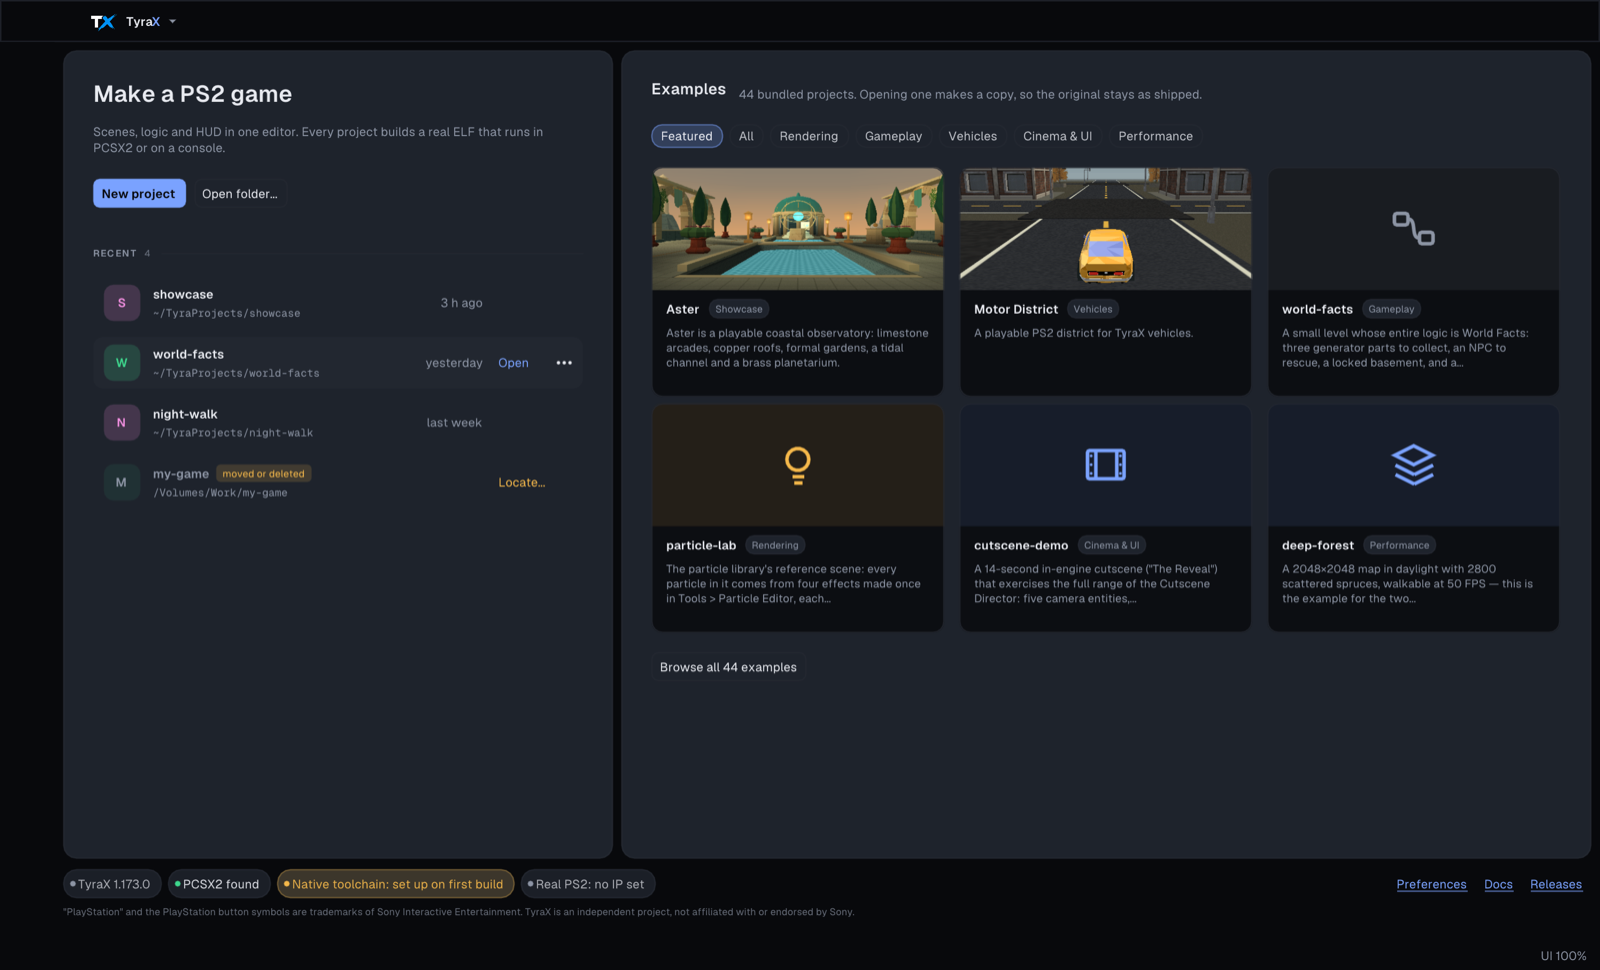
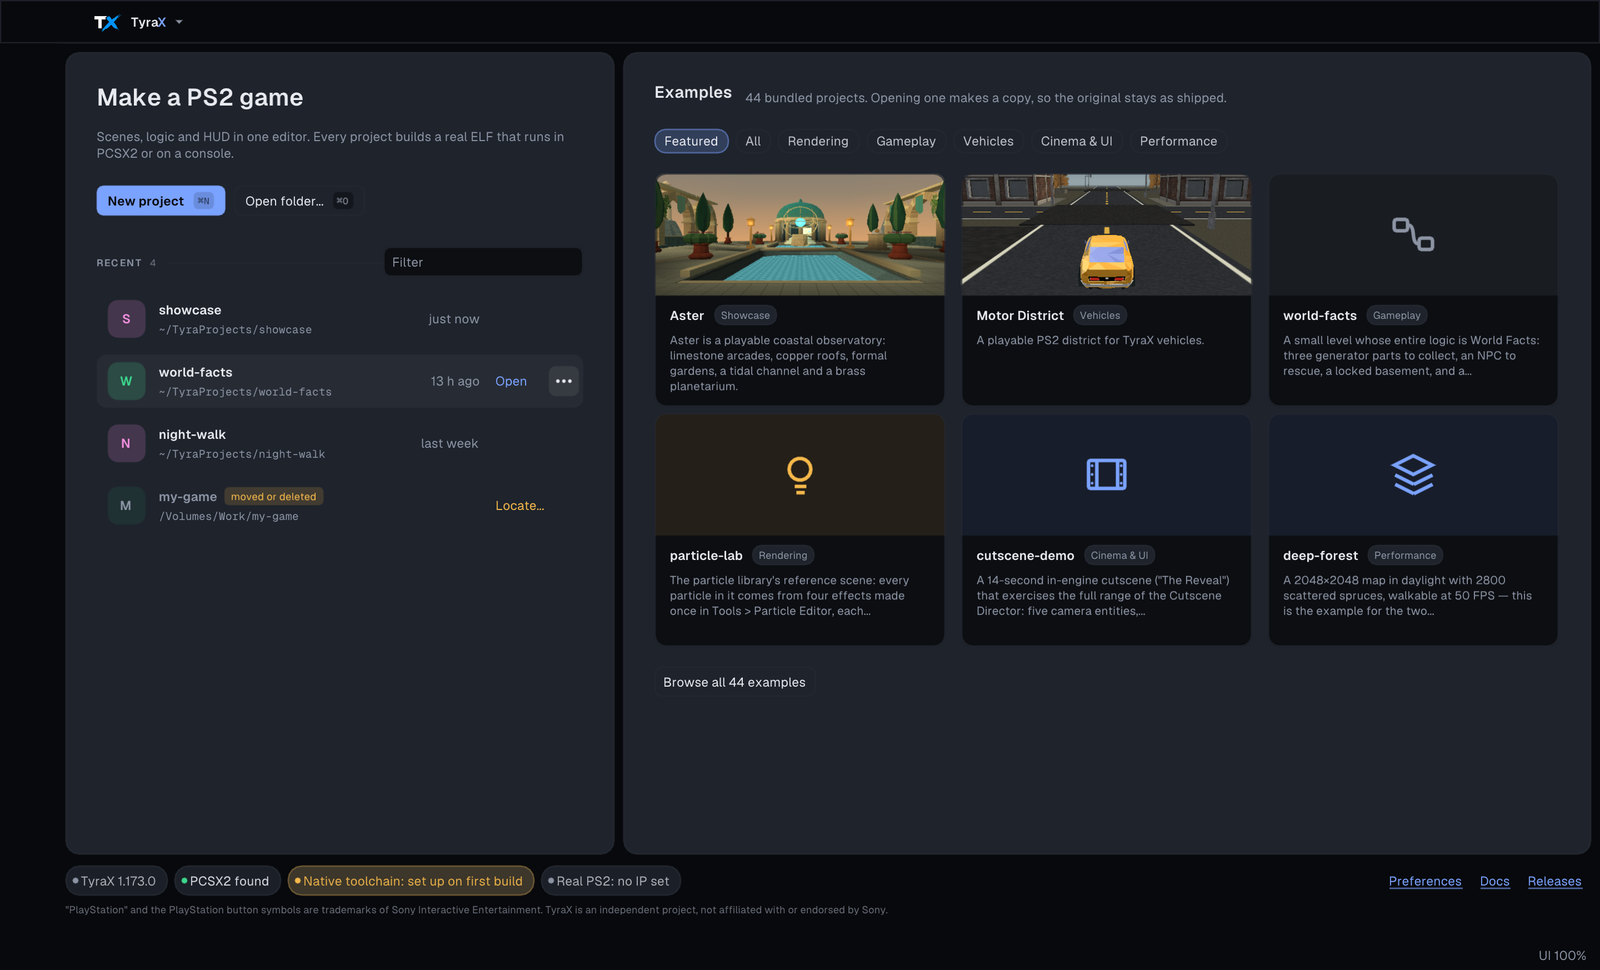
Welcome: Filter on Recent from two projects, shortcuts inside the buttons
Welcome.dc.html has the Recent list's Filter field and the key hints inside
New project / Open folder... The editor showed the filter only past four
recent projects (so a typical start page had none) and put the shortcuts in
hover tooltips only.

- The Filter field shows as soon as there are two recent projects.
- New toolkit helper ui::KeyButton (verify-polish-2 section): a primary or
  secondary button with its shortcut on a small mono tile after the label;
  both Welcome buttons use it (IDs unchanged, tooltips kept).
- docs/start-page.md + docs/img/start-page.png retaken.

Verified: three recents -> Filter shown, typing "cube" leaves the cube row
only (dump); buttons render with the Cmd+N / Cmd+O caps.

diff --git a/src/toolkit.cpp b/src/toolkit.cpp
@@ -1785,5 +1785,59 @@ bool GoButton(const char* label, float width, bool enabled) {
     return pressed && enabled;
 }
 
+
+bool KeyButton(const char* label, const char* key, bool primary, bool enabled) {
+    const theme::Semantics& sem = theme::semantics();
+    const ImGuiStyle& st = ImGui::GetStyle();
+    const char* end = ImGui::FindRenderedTextEnd(label);
+    ImFont* face = primary && boldFont() ? boldFont() : ImGui::GetFont();
+    const float fsz = ImGui::GetFontSize();
+    const ImVec2 ts = face->CalcTextSizeA(fsz, FLT_MAX, 0.0f, label, end);
+    const float h = ImGui::GetFrameHeight();
+    // the key hint: mono, small, on a tile a little shorter than the text line
+    ImFont* mono = monoFont() ? monoFont() : ImGui::GetFont();
+    const float kfs = fsz * 0.72f;
+    const ImVec2 ks = key && *key ? mono->CalcTextSizeA(kfs, FLT_MAX, 0.0f, key) : ImVec2(0, 0);
+    const float kpad = kfs * 0.35f, kh = kfs + kpad * 1.2f;
+    const float kw = ks.x > 0.0f ? ks.x + kpad * 2.0f : 0.0f;
+    const float gap = kw > 0.0f ? fsz * 0.55f : 0.0f;
+    const float w = ts.x + gap + kw + st.FramePadding.x * 2.6f;
+    const ImVec2 p = ImGui::GetCursorScreenPos();
+    ImGui::BeginDisabled(!enabled);
+    const bool pressed = ImGui::InvisibleButton(label, ImVec2(w, h));
+    ImGui::EndDisabled();
+    const bool hov = enabled && ImGui::IsItemHovered();
+    const bool held = enabled && ImGui::IsItemActive();
+    const float t = theme::hoverAnim(ImGui::GetItemID(), hov, 12.0f);
+    ImDrawList* dl = ImGui::GetWindowDrawList();
+    const ImVec2 q(p.x + w, p.y + h);
+    const float r = st.FrameRounding;
+    ImU32 ink, kink, kbg;
+    if (primary) {
+        ImVec4 f = enabled ? sem.accent : sem.surface;
+        if (enabled) f = mixv(f, ImVec4(1, 1, 1, 1), 0.10f * t);
+        if (held) f = mixv(f, ImVec4(0, 0, 0, 1), 0.15f);
+        dl->AddRectFilled(p, q, c32(f), r);
+        ink = enabled ? c32(sem.ground) : c32(sem.textDim, 0.6f);
+        kink = enabled ? c32(sem.ground, 0.7f) : c32(sem.textDim, 0.5f);
+        kbg = c32(sem.ground, 0.14f);
+    } else {
+        const ImVec4 f = mixv(sem.surface, sem.text, held ? 0.12f : 0.06f * t);
+        dl->AddRectFilled(p, q, c32(f, enabled ? 1.0f : 0.5f), r);
+        dl->AddRect(p, q, c32(sem.border), r);
+        ink = enabled ? c32(sem.text) : c32(sem.textDim, 0.6f);
+        kink = c32(sem.textDim);
+        kbg = c32(sem.ground, 0.5f);
+    }
+    const float x0 = p.x + st.FramePadding.x * 1.3f;
+    dl->AddText(face, fsz, ImVec2(x0, p.y + (h - ts.y) * 0.5f), ink, label, end);
+    if (kw > 0.0f) {
+        const ImVec2 k0(x0 + ts.x + gap, p.y + (h - kh) * 0.5f);
+        dl->AddRectFilled(k0, ImVec2(k0.x + kw, k0.y + kh), kbg, kh * 0.25f);
+        dl->AddText(mono, kfs, ImVec2(k0.x + kpad, k0.y + (kh - ks.y) * 0.5f), kink, key);
+    }
+    return pressed && enabled;
+}
+
 }  // namespace ui
 // --- end verify-polish-2 -----------------------------------------------------

diff --git a/src/app.cpp b/src/app.cpp
@@ -2796,10 +2796,13 @@ void App::drawWelcomeScreen() {
 
         const std::string newKey = ui::ShortcutChord("N", nullptr, "+");
         const std::string openKey = ui::ShortcutChord("O", nullptr, "+");
-        if (ui::PrimaryButton("New project")) requestNewProject();
+        // The shortcut rides inside each button, as designed (Welcome.dc.html).
+        const std::string newCap = ui::ShortcutChord("N", nullptr, "+", true);
+        const std::string openCap = ui::ShortcutChord("O", nullptr, "+", true);
+        if (ui::KeyButton("New project", newCap.c_str(), true)) requestNewProject();
         if (ImGui::IsItemHovered()) ImGui::SetTooltip("%s", newKey.c_str());
         ImGui::SameLine();
-        if (ImGui::Button("Open folder...")) requestOpenProject();
+        if (ui::KeyButton("Open folder...", openCap.c_str(), false)) requestOpenProject();
         if (ImGui::IsItemHovered())
             ImGui::SetTooltip("A folder holding a .tyra project (%s)", openKey.c_str());
 
@@ -2809,7 +2812,9 @@ void App::drawWelcomeScreen() {
         const float rowY = ImGui::GetCursorPosY();
         ImGui::SetCursorPosY(rowY + (ImGui::GetFrameHeight() - fs) * 0.5f);
         ui::Caption("Recent", recentProjects_.empty() ? nullptr : std::to_string(recentProjects_.size()).c_str());
-        if (recentProjects_.size() > 4) {
+        // The filter is always there once there is a list to filter (it
+        // waited for five projects, so most people never saw it).
+        if (recentProjects_.size() > 1) {
             ImGui::SetCursorPos(ImVec2(ImGui::GetWindowContentRegionMax().x - filterW, rowY));
             ImGui::SetNextItemWidth(filterW);
             ImGui::InputTextWithHint("##recent_filter", "Filter", welcomeRecentFilter_,

diff --git a/src/toolkit.hpp b/src/toolkit.hpp
@@ -443,6 +443,11 @@ bool PadPortSegmented(const char* id, int* port, float width, bool enabled = tru
  * something live (Vehicle Editor's Drive it). Same contract as PrimaryButton;
  * `width` 0 = fit. */
 bool GoButton(const char* label, float width = 0.0f, bool enabled = true);
+/** A button with its keyboard shortcut drawn inside, after the label, on a
+ * small mono tile (the Welcome screen's New project / Open folder...).
+ * `primary` = the accent fill (PrimaryButton), else the SecondaryButton look.
+ * `label` is the ID and the --ui-script name. Returns clicked. */
+bool KeyButton(const char* label, const char* key, bool primary, bool enabled = true);
 // --- end verify-polish-2 -----------------------------------------------------
 
 }  // namespace ui

diff --git a/docs/start-page.md b/docs/start-page.md
@@ -14,11 +14,12 @@ bottom.](img/start-page.png)
 
 **New project** opens the [New Project](#new-project) dialog (Ctrl+N, Cmd+N on
 a Mac); **Open folder...** picks a folder holding a `.tyra` file (Ctrl+O).
+Each button shows its shortcut inside it.
 
 Below them, the projects you opened, most recent first, each with its folder
 (your home folder shown as `~`) and when it was last saved. Click a row to open
-it. With more than four entries a **Filter** field narrows the list by name or
-folder. The **...** on a hovered row offers *Open*, *Locate...*, *Reveal in
+it. As soon as there are two, a **Filter** field beside *Recent* narrows the
+list by name or folder. The **...** on a hovered row offers *Open*, *Locate...*, *Reveal in
 folder* and *Forget* - forgetting only drops the entry, the project stays on
 disk.
 
